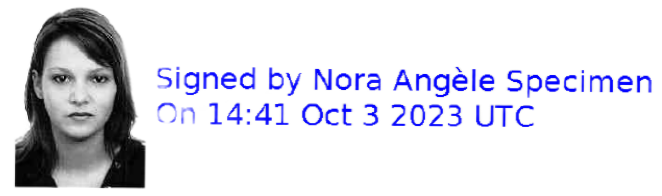
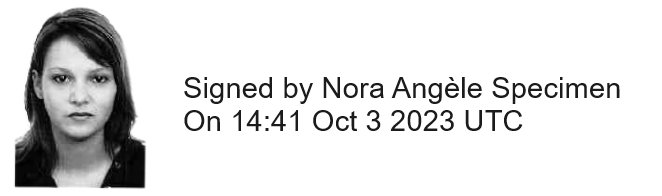
New signature selection UI

Changed region(s): [[0.2115, 0.3367, 0.997, 0.6735]]

diff --git a/src/modules/components/UploadFile/UploadFileContainer.js b/src/modules/components/UploadFile/UploadFileContainer.js
@@ -130,8 +130,12 @@ export const UploadFileContainer = (props) => {
     let maxUploadSize = window.configData.maxUploadSize;
     if (!maxUploadSize) maxUploadSize = 10*1024*1024; // 10Mb default
     let maxSize = Math.round(maxUploadSize*10/(1024*1024))/10;
+    let invisSig = props.signatureSelected === INVISIBLE_SIGNATURE;
+    let textColor = invisSig ? { color: "#CFCFCF"} : {};
+    let backgroundColor = invisSig ? { backgroundColor: "#CFCFCF"} : {};
 
     return (
+        <>
         <CardContainer
             title={intl.formatMessage(messages.title)}
             hasNextButton
@@ -255,26 +259,49 @@ export const UploadFileContainer = (props) => {
                     </div>
                 </div>
             </div>
-            { props.file.url && props.file.isPdf &&
-                <>
-                    <h1><br/>Signatures</h1>
-                    <input type="radio" id="sig_no" key="noSignature" checked={props.signatureSelected === INVISIBLE_SIGNATURE}
-                            onChange={ () => {props.selectSignature(INVISIBLE_SIGNATURE)} }
-                            name="sigSel"/>&nbsp;<label htmlFor="sig_no">No visible Signature</label><br/>
-                    <input type="radio" id="sig_man" key="manualSignature" checked={props.signatureSelected === MANUAL_SIGNATURE}
-                            disabled={props.signatureArea === null} onChange={ () => {props.selectSignature(MANUAL_SIGNATURE)} }
-                            name="sigSel"/>&nbsp;<label htmlFor="sig_man">Manual Signature</label><br/>
-                    { props.signatureFields.map((sigField, index) => (
-                        <div key={index} >
-                            <input type="radio" id={ "sig_"+index } checked={props.signatureSelected === sigField}
-                            onChange={ () => {props.selectSignature(sigField)} }
-                            name="sigSel"/>&nbsp;<label htmlFor={ "sig_"+index }>{ sigField }</label><br/>
-                        </div>
-                    ))}
-                    <input type="checkbox" id="photo" checked={props.photoIncluded}
-                            onChange={ () => { props.includePhoto(!props.photoIncluded) } } style={{ display: "inline-block"}}/>&nbsp;<label htmlFor="photo">Include photo</label><br/>
-                </>}
         </CardContainer>
+            { props.file.url && props.file.isPdf &&
+                <div className="col-12">
+                    <div className="card" style={{ marginTop: "15px", backgroundColor: "rgba(0, 0, 0, 0.03)"}}>
+                        <ol className="invisibleOL">
+                            <div className="card-body" style={{ paddingLeft: "60px" }}>
+                                <li><div className="row mb-4"><div className="col col-1"><span className="badge badge-primary p-1">1</span></div><div className="col col-11"><b>Do you want your signature to be visible in the document ?</b>
+                                    <br/><input className="mt-3" type="radio" id="sig_vis" key="visible" checked={props.signatureSelected !== INVISIBLE_SIGNATURE} disabled={props.signatureArea === null && props.signatureFields.length === 0 }
+                                    onChange={ () => { props.selectSignature((props.signatureArea === null) ? props.signatureFields[0] : MANUAL_SIGNATURE) } }
+                                    name="visible"/>&nbsp;<label htmlFor="sig_no">yes</label><br/>
+                                    <input type="radio" id="sig_inv" key="invisible" checked={invisSig}
+                                            onChange={ () => {props.selectSignature(INVISIBLE_SIGNATURE)} }
+                                            name="visible"/>&nbsp;<label htmlFor="sig_no">no</label><br/>
+                                </div></div></li>
+                                <li><div className="row mb-4" style={ textColor }><div className="col col-1"><span className="badge p-1 badge-primary" style={ backgroundColor }>2</span></div><div className="col col-11"><b>Do you want the signature to include your photo ?</b>
+                                    <br/><input className="mt-3" type="checkbox" id="photo" checked={props.photoIncluded && props.signatureSelected !== INVISIBLE_SIGNATURE}
+                                        onChange={ () => { props.includePhoto(!props.photoIncluded) } } disabled={invisSig}
+                                        style={{ display: "inline-block"}}/>&nbsp;<label htmlFor="photo">Include photo</label><br/>
+                                </div></div></li>
+                                <li><div className="row mb-4" style={ textColor }><div className="col col-1"><span className="badge p-1 badge-primary" style={ backgroundColor }>3</span></div><div className="col col-11">
+                                    { props.signatureFields.length === 0 && props.signatureArea === null ?
+                                        <b>Create a signature field by drawing its enclosing rectangle in the document preview</b> : 
+
+                                        <>
+                                            <b>Choose your signature field or draw one yourself  by pressing the button at the top right of your document:</b>
+                                            <br/><input className="mt-3" type="radio" id="sig_man" key="manualSignature" checked={props.signatureSelected === MANUAL_SIGNATURE}
+                                            disabled={props.signatureArea === null || invisSig} onChange={ () => {props.selectSignature(MANUAL_SIGNATURE)} }
+                                            name="sigSel"/>&nbsp;<label htmlFor="sig_man">Manual Signature</label><br/>
+                                            { props.signatureFields.map((sigField, index) => (
+                                                <div key={index} >
+                                                    <input type="radio" id={ "sig_"+index } checked={props.signatureSelected === sigField}
+                                                    onChange={ () => {props.selectSignature(sigField)} } disabled={invisSig} 
+                                                    name="sigSel"/>&nbsp;<label htmlFor={ "sig_"+index }>{ sigField }</label><br/>
+                                                </div>
+                                            ))}
+                                        </>
+                                    }
+                                </div></div></li>
+                            </div>
+                        </ol>
+                </div>
+            </div>}
+        </>
     )
 }
 

diff --git a/src/modules/fileUpload/components/DisplayFile/DisplayPDF.js b/src/modules/fileUpload/components/DisplayFile/DisplayPDF.js
@@ -221,12 +221,12 @@ export const DisplayPDF = ({ file, drawSignature }) => {
 
         if (rect) {
             // Draw current drag rectangle ...
-            drawSignatureRect(ctx, rect, '#00EE00')
+            drawSignatureRect(ctx, rect, true)
             }
         else {
             // ... or Draw existing manual (drag) signature
             if (signatureArea && signatureArea.page === pageNumber) {
-                drawSignatureRect(ctx, scaleRect(signatureArea.rect, scale), signatureSelected === MANUAL_SIGNATURE ? '#00EE00' : '#EEEEEE');
+                drawSignatureRect(ctx, scaleRect(signatureArea.rect, scale), signatureSelected === MANUAL_SIGNATURE);
             }
         }
 
@@ -234,16 +234,16 @@ export const DisplayPDF = ({ file, drawSignature }) => {
         if (pagesInfo.length != 0) {
             pagesInfo[pageNumber - 1].sigAcroforms.forEach((sigAcroform) => {
                 if (!sigAcroform.isSigned) {
-                    drawSignatureRect(ctx, scaleRect(sigAcroform.rect, scale), signatureSelected === sigAcroform.fieldName ? '#00EE00' : '#EEEEEE');
+                    drawSignatureRect(ctx, scaleRect(sigAcroform.rect, scale), signatureSelected === sigAcroform.fieldName);
                 }
             });
         }
     };
 
-    const drawSignatureRect = (ctx, r, color) => {
+    const drawSignatureRect = (ctx, r, isSelected) => {
         const w = r.right - r.left;
         const h = r.bottom - r.top;
-        ctx.fillStyle = color;
+        ctx.fillStyle = isSelected ? '#11a0ba' : '#EEEEEE';
         ctx.fillRect(r.left, r.top, w, h);
         const image = document.getElementById(photoIncluded ? "signPhotoImage" : "signatureImage");
         if (image) {
@@ -255,7 +255,9 @@ export const DisplayPDF = ({ file, drawSignature }) => {
             if (scaleY < scale) scale = scaleY;
             imgH *= scale;
             imgW *= scale;
+            if (!isSelected) ctx.filter = "blur(4px)";
             ctx.drawImage(image, r.left + (w - imgW) / 2, r.top + (h - imgH) / 2, imgW, imgH);
+            ctx.filter = "none";
         }
     }
     
